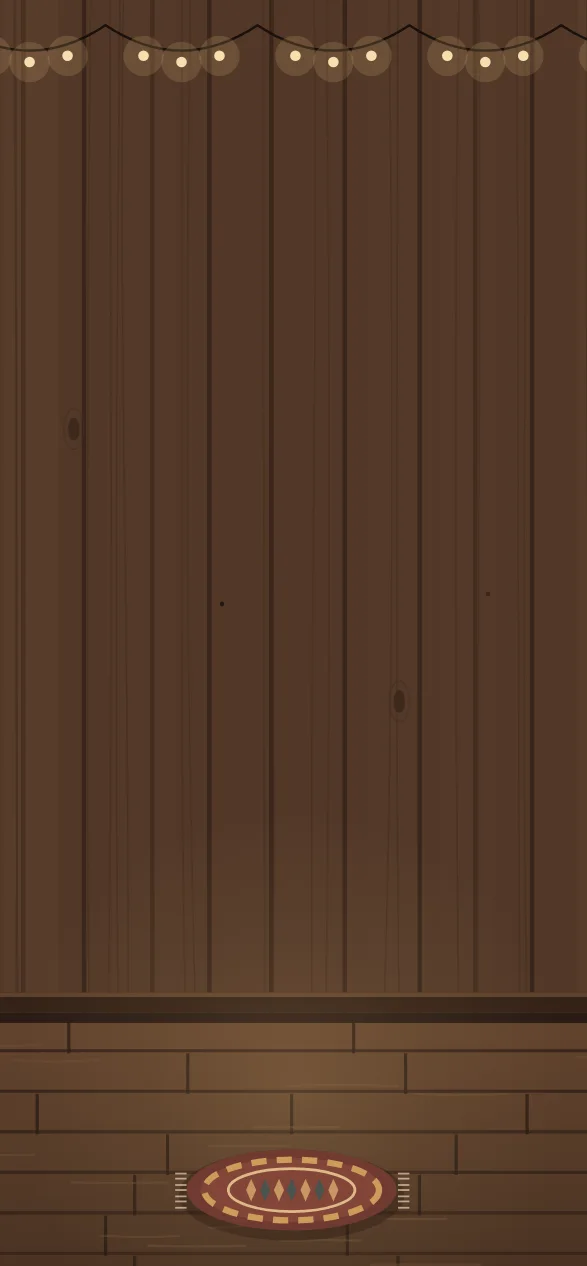
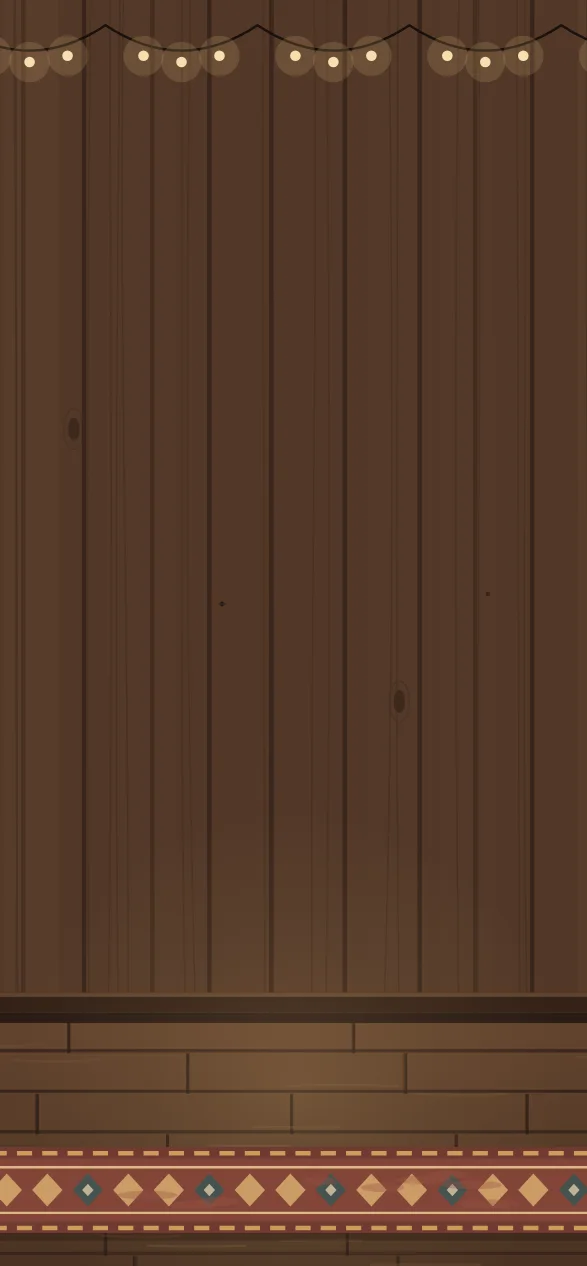
小屋のラグを 1 本のランナーに、家具を絵に合わせて大きく

Changed region(s): [[0.0, 0.8934, 1.0, 0.9858]]

diff --git a/assets/js/nature.js b/assets/js/nature.js
@@ -2053,25 +2053,34 @@ export function sceneAttic(W, stops, { birdGap = -1 } = {}) {
   for (let i = 0; i < (mw - wallX) / 3; i++) { const x = R(wallX, mw), y = R(81, 105); mid += `<path d="M${n1(x)} ${n1(y)}q${n1(R(2, 4))} ${n1(R(-.3, .3))} ${n1(R(5, 9))} 0" stroke="#7a5638" stroke-width=".18" fill="none" opacity=".45"/>`; }
   mid += `<rect x="${n1(wallX)}" y="78.4" width="${n1(mw - wallX + 5)}" height="1.6" fill="#3a2718"/><rect x="${n1(wallX)}" y="78.4" width="${n1(mw - wallX + 5)}" height=".35" fill="#7a5638" opacity=".7"/>`;
   for (let k = 2; k < stops; k++) mid += rglow(workX(k), 86, 22, '#ffcf85', .16);
-  // ラグ：外の縁取り、内側の二重線、菱形の模様、端のフリンジ
-  for (let k = 2; k < stops; k++) {
-    const x = workX(k), rx = W * .18;
-    mid += `<ellipse cx="${n1(x)}" cy="94.4" rx="${n1(rx + .6)}" ry="3.6" fill="#2a1a12" opacity=".35"/><ellipse cx="${n1(x)}" cy="94" rx="${n1(rx)}" ry="3.2" fill="#7a3f33"/><ellipse cx="${n1(x)}" cy="94" rx="${n1(rx * .86)}" ry="2.55" fill="#8d4a3a"/><ellipse cx="${n1(x)}" cy="94" rx="${n1(W * .15)}" ry="2.4" fill="none" stroke="#d9a35a" stroke-width=".5" stroke-dasharray="1.2 .8"/><ellipse cx="${n1(x)}" cy="94" rx="${n1(rx * .6)}" ry="1.7" fill="none" stroke="#e8c18a" stroke-width=".22"/>`;
-    for (let t = -3; t <= 3; t++) mid += `<path d="M${n1(x + t * rx * .13)} 93.1l${n1(rx * .045)} .9l${n1(-rx * .045)} .9l${n1(-rx * .045)} -.9Z" fill="${t % 2 ? '#e2b36f' : '#3f5d59'}" opacity=".8"/>`;
-    for (const side of [-1, 1]) for (let f = -3; f <= 3; f++) mid += `<path d="M${n1(x + side * rx)} ${n1(94 + f * .45)}h${n1(side * .9)}" stroke="#e8d3ad" stroke-width=".14" opacity=".75"/>`;
+  // ラグ：部屋の奥まで続く 1 本の長い敷物（ランナー）。縁取り、内側の二重線、菱形の模様、両端のフリンジ
+  {
+    const x0 = wallX + 6, x1 = mw + 6, y0 = 90.6, y1 = 97.4;
+    mid += `<rect x="${n1(x0 + .4)}" y="${n1(y0 + .6)}" width="${n1(x1 - x0)}" height="${n1(y1 - y0)}" fill="#2a1a12" opacity=".35"/>`;
+    mid += `<rect x="${n1(x0)}" y="${n1(y0)}" width="${n1(x1 - x0)}" height="${n1(y1 - y0)}" fill="#7a3f33"/><rect x="${n1(x0)}" y="${n1(y0 + .9)}" width="${n1(x1 - x0)}" height="${n1(y1 - y0 - 1.8)}" fill="#8d4a3a"/>`;
+    mid += `<path d="M${n1(x0)} ${n1(y0 + .45)}H${n1(x1)}M${n1(x0)} ${n1(y1 - .45)}H${n1(x1)}" stroke="#d9a35a" stroke-width=".35" stroke-dasharray="1.2 .8"/>`;
+    mid += `<path d="M${n1(x0)} ${n1(y0 + 1.6)}H${n1(x1)}M${n1(x0)} ${n1(y1 - 1.6)}H${n1(x1)}" stroke="#e8c18a" stroke-width=".18"/>`;
+    const cy = (y0 + y1) / 2;
+    for (let x = x0 + 2, i = 0; x < x1 - 2; x += 3.2, i++) {
+      mid += `<path d="M${n1(x)} ${n1(cy - 1.3)}l1.2 1.3l-1.2 1.3l-1.2 -1.3Z" fill="${i % 3 === 1 ? '#3f5d59' : '#e2b36f'}" opacity=".85"/>`;
+      if (i % 3 === 1) mid += `<path d="M${n1(x)} ${n1(cy - .5)}l.45 .5l-.45 .5l-.45 -.5Z" fill="#e8d3ad" opacity=".8"/>`;
+    }
+    for (const ex of [x0]) for (let f = y0 + .4; f < y1; f += .55) mid += `<path d="M${n1(ex)} ${n1(f)}h-1" stroke="#e8d3ad" stroke-width=".14" opacity=".75"/>`;
+    // すり切れた毛足：ところどころ明るく
+    for (let i = 0; i < (x1 - x0) / 6; i++) mid += `<ellipse cx="${n1(R(x0 + 2, x1 - 2))}" cy="${n1(R(y0 + 2, y1 - 2))}" rx="${n1(R(1, 2.5))}" ry=".35" fill="#a85a48" opacity=".35"/>`;
   }
   // 床と壁の小物（作品と作品のあいだ。レコードプレーヤー・ソファ・木箱のあるすき間は避ける）
   for (let k = 1; k < stops - 1; k++) {
     if (k === 3 || k === 4 || k === 5) continue;
     const gx = (workX(k) + workX(k + 1)) / 2, Zk = [artZone(W, workX(k), 0, 80), artZone(W, workX(k + 1), 0, 80)];
     // 手前の鉢植えがすき間の真ん中に来るので、床の小物は左右に寄せる
-    const off = Math.max(12, W * .11);
+    const off = Math.max(12, W * .11), FK = W < 80 ? 1.25 : 2.1; // 家具の大きさ（絵と比べて部屋が大きすぎて見えないように）
     // 1 つ目のすき間は左半分が小屋の外（雪の中）なので、ギターは置かない。スツールとマグは小屋の中にあるときだけ
-    if (k === 1) { if (gx + off > wallX + 3) { mid += stoolMug(gx + off, 90.5, 2.2); mug = [gx + off, 90.5 - 2.2 * 1.75 - 2.2 * .42 * 1.1]; } }
-    else if (k === 2) { mid += vinylStack(gx - off, 90, 2.6); }
-    else { mid += skis(gx - off, 90, 30); }
+    if (k === 1) { if (gx + off > wallX + 3) { mid += stoolMug(gx + off, 90.5, 2.2 * FK); mug = [gx + off, 90.5 - 2.2 * FK * 1.75 - 2.2 * FK * .42 * 1.1]; } }
+    else if (k === 2) { mid += vinylStack(gx - off, 90, 2.6 * FK); }
+    else { mid += skis(gx - off, 90, 30 * Math.min(FK, 1.6)); }
     // 壁の小物は、作品にかからないときだけ（広い画面）
-    if (k === 1) mid += guard(Zk, () => coatRack(gx, 30, 14), { min: 1 });
+    if (k === 1) mid += guard(Zk, () => coatRack(gx, 30, 14 * Math.min(FK, 1.4)), { min: 1 });
     if (k === 2) mid += guard(Zk, () => sconce(gx, 38, 2.6), { min: 1 });
   }
   // 天井のドライハーブ：電球のあいだに、作品にかからないところへ
@@ -2080,8 +2089,8 @@ export function sceneAttic(W, stops, { birdGap = -1 } = {}) {
     const m = mids[0], shW = Math.min(22, gap - 2);
     if (shW >= 10) mid += shelf(m - shW / 2, 26, shW) + shelf(m - shW / 2, 40, shW);
     // 薪ストーブは床に置き、煙突は壁ぞいに天井へ（すき間が狭いときは置かない）
-    if (gap >= 11) stove = [m, 80];
-    if (gap >= 11) mid += rglow(m, 74, 16, '#ff9a4a', .45) + `<path d="M${n1(m - 4)} 80v-9h8v9Z" fill="#1d1916"/><rect x="${n1(m - 2.6)}" y="73.5" width="5.2" height="3.4" fill="#ff8a3a"/><path d="M${n1(m + 2)} 71V53h1.4V71Z" fill="#1d1916"/><path d="M${n1(m + 1.6)} 60.5h2.2v.6h-2.2Z" fill="#3a3430"/><ellipse cx="${n1(m + 2.7)}" cy="52.4" rx="2.2" ry="1.3" fill="#2a1c12"/><ellipse cx="${n1(m + 2.7)}" cy="52.4" rx="1.5" ry=".85" fill="#4a3a2c"/><ellipse cx="${n1(m + 2.7)}" cy="52.5" rx=".8" ry=".45" fill="#141110"/>`; // 煙突は壁の丸い受け口に差し込む
+    // 薪ストーブ（鋳物の箱に脚、焚き口のガラス、上に煙突）。家具に合わせて大きめに
+    if (gap >= 11) { const k = 2.1, sw = 8 * k, sh = 9 * k, top = 80 - sh; mid += rglow(m, 80 - sh * .6, 16 * k, '#ff9a4a', .45) + `<path d="M${n1(m - sw / 2)} ${n1(79)}v${n1(-sh + 1)}h${n1(sw)}v${n1(sh - 1)}Z" fill="#1d1916"/><path d="M${n1(m - sw / 2 - .6)} ${n1(top)}h${n1(sw + 1.2)}v1h${n1(-sw - 1.2)}Z" fill="#2a2522"/><path d="M${n1(m - sw / 2 + .6)} 79v1.2M${n1(m + sw / 2 - .6)} 79v1.2" stroke="#1d1916" stroke-width=".8"/><rect x="${n1(m - sw * .32)}" y="${n1(top + sh * .3)}" width="${n1(sw * .64)}" height="${n1(sh * .42)}" rx=".4" fill="#ff8a3a"/><rect x="${n1(m - sw * .32)}" y="${n1(top + sh * .3)}" width="${n1(sw * .64)}" height="${n1(sh * .42)}" rx=".4" fill="none" stroke="#3a3430" stroke-width=".6"/><path d="M${n1(m + 2 * k)} ${n1(top)}V52h${n1(1.4 * k)}V${n1(top)}Z" fill="#1d1916"/><ellipse cx="${n1(m + 2.7 * k)}" cy="52.4" rx="${n1(2.2 * k)}" ry="${n1(1.3 * k)}" fill="#2a1c12"/><ellipse cx="${n1(m + 2.7 * k)}" cy="52.4" rx="${n1(1.5 * k)}" ry="${n1(.85 * k)}" fill="#4a3a2c"/>`; stove = [m, 80, k]; }
   }
   // 壁に掛けたスケートボード：作品の枠にかからないときだけ
   const sk = [[wallX + 8, 26, '#d4d0b5', '#382a1d'], [wallX + 14, 27, '#e3dcc0', '#7f6032']];

diff --git a/assets/js/museum.js b/assets/js/museum.js
@@ -635,7 +635,7 @@ function buildLiving(r) {
   if (D.lighthouse) { const { x, y } = D.lighthouse; S.insertAdjacentHTML('beforeend', `<div class="living lighthouse" style="left:${((x - 40) * U).toFixed(1)}px;top:${((y - 40) * U).toFixed(1)}px;width:80vh">${beamSVG()}</div>`); }
   if (D.foam) { const mw = W + (r.stops - 1) * W * FACTORS.mid + 40; P.insertAdjacentHTML('beforeend', `<i class="living foam" style="left:-5vh;top:${(D.foam - 1.2) * U}px;width:${mw + 10}vh"></i><i class="living foam f2" style="left:-5vh;top:${(D.foam + .2) * U}px;width:${mw + 10}vh"></i>`); }
   if (D.mug) { const [x, y] = D.mug; P.insertAdjacentHTML('beforeend', `<div class="living steam" style="left:${((x - 1) * U).toFixed(1)}px;top:${((y - 4) * U).toFixed(1)}px"><i></i><i></i><i></i></div>`); }
-  if (D.stove) { const [x, y] = D.stove; P.insertAdjacentHTML('beforeend', `<div class="living stove-fire" style="left:${((x - 2.4) * U).toFixed(1)}px;top:${((y - 3.2 - 7.8) * U).toFixed(1)}px;width:4.8vh">${fireSVG()}</div>`); } // 炎の根もとが焚き口（y−3.2）に来るように
+  if (D.stove) { const [x, y, k = 1] = D.stove, sh = 9 * k, fw = 4.8 * k * .9; P.insertAdjacentHTML('beforeend', `<div class="living stove-fire" style="left:${((x - fw / 2) * U).toFixed(1)}px;top:${((y - sh + sh * .3 + sh * .42 - fw * 13 / 8 + .3) * U).toFixed(1)}px;width:${fw.toFixed(2)}vh">${fireSVG()}</div>`); } // 炎の根もとが焚き口（y−3.2）に来るように
   if (D.wins) P.insertAdjacentHTML('beforeend', D.wins.map(([x, y, w, h]) => `<div class="living win-snow" style="left:${(x * U).toFixed(1)}px;top:${(y * U).toFixed(1)}px;width:${w}vh;height:${h}vh">${windowSnowSVG(w, h)}</div>`).join(''));
 }
 // 立ち止まったときだけ現れる小さな動き（立ち止まる場所ごとに 1 回）：森は鳥が枝から飛び立つ、水辺はトンボが横切る、夕凪はカモメが砂から飛び立つ、夜の庭は流れ星、小屋は火の粉がはじける
@@ -657,6 +657,7 @@ function buildProps(r) {
   (cfg.extra || []).forEach(([s, kind, dx]) => spots.push([s, W / 2 + dx, kind])); // dx：金庫などとぶつからないよう横にずらす（vh）
   L.innerHTML = spots.map(([s, x, kind]) => {
     const p = propHTML(kind, r.room.scene);
+    if (r.room.scene === 'attic') p.w *= W < 80 ? 1.25 : 2.1; // 小屋の家具は、絵と比べて小さすぎないように
     p.html = gradeColors(p.html, gradeOf(r.room.scene));
     const pos = p.bottom == null ? 'top:0' : `bottom:${p.bottom}vh`;
     const eggKind = kind === 'recordStand' ? 'turntable' : kind;

diff --git a/assets/css/museum.css b/assets/css/museum.css
@@ -460,6 +460,7 @@ body.party::after { content: ""; position: fixed; inset: 0; z-index: 55; pointer
 
 /* 閉館後の部屋の深夜テレビ（3 作品をチャンネルで） */
 .egg-prop.tv { width: 22vh; bottom: 12.6vh; }
+@media (min-width: 761px) { .egg-prop.tv { width: 38vh; } } /* 広い画面では家具に合わせて大きく */
 /* インコ：ときどき首をかしげ、タップで跳ねる */
 .prop.bird-prop { height: 5.4vh; aspect-ratio: 257 / 300; padding: 0; border: 0; background: none; cursor: pointer; filter: drop-shadow(0 .4vh .3vh rgba(0, 0, 0, .25)); }
 .prop.bird-prop img { display: block; width: 100%; height: 100%; transform-origin: 50% 100%; animation: bird-look 7s ease-in-out infinite; }
